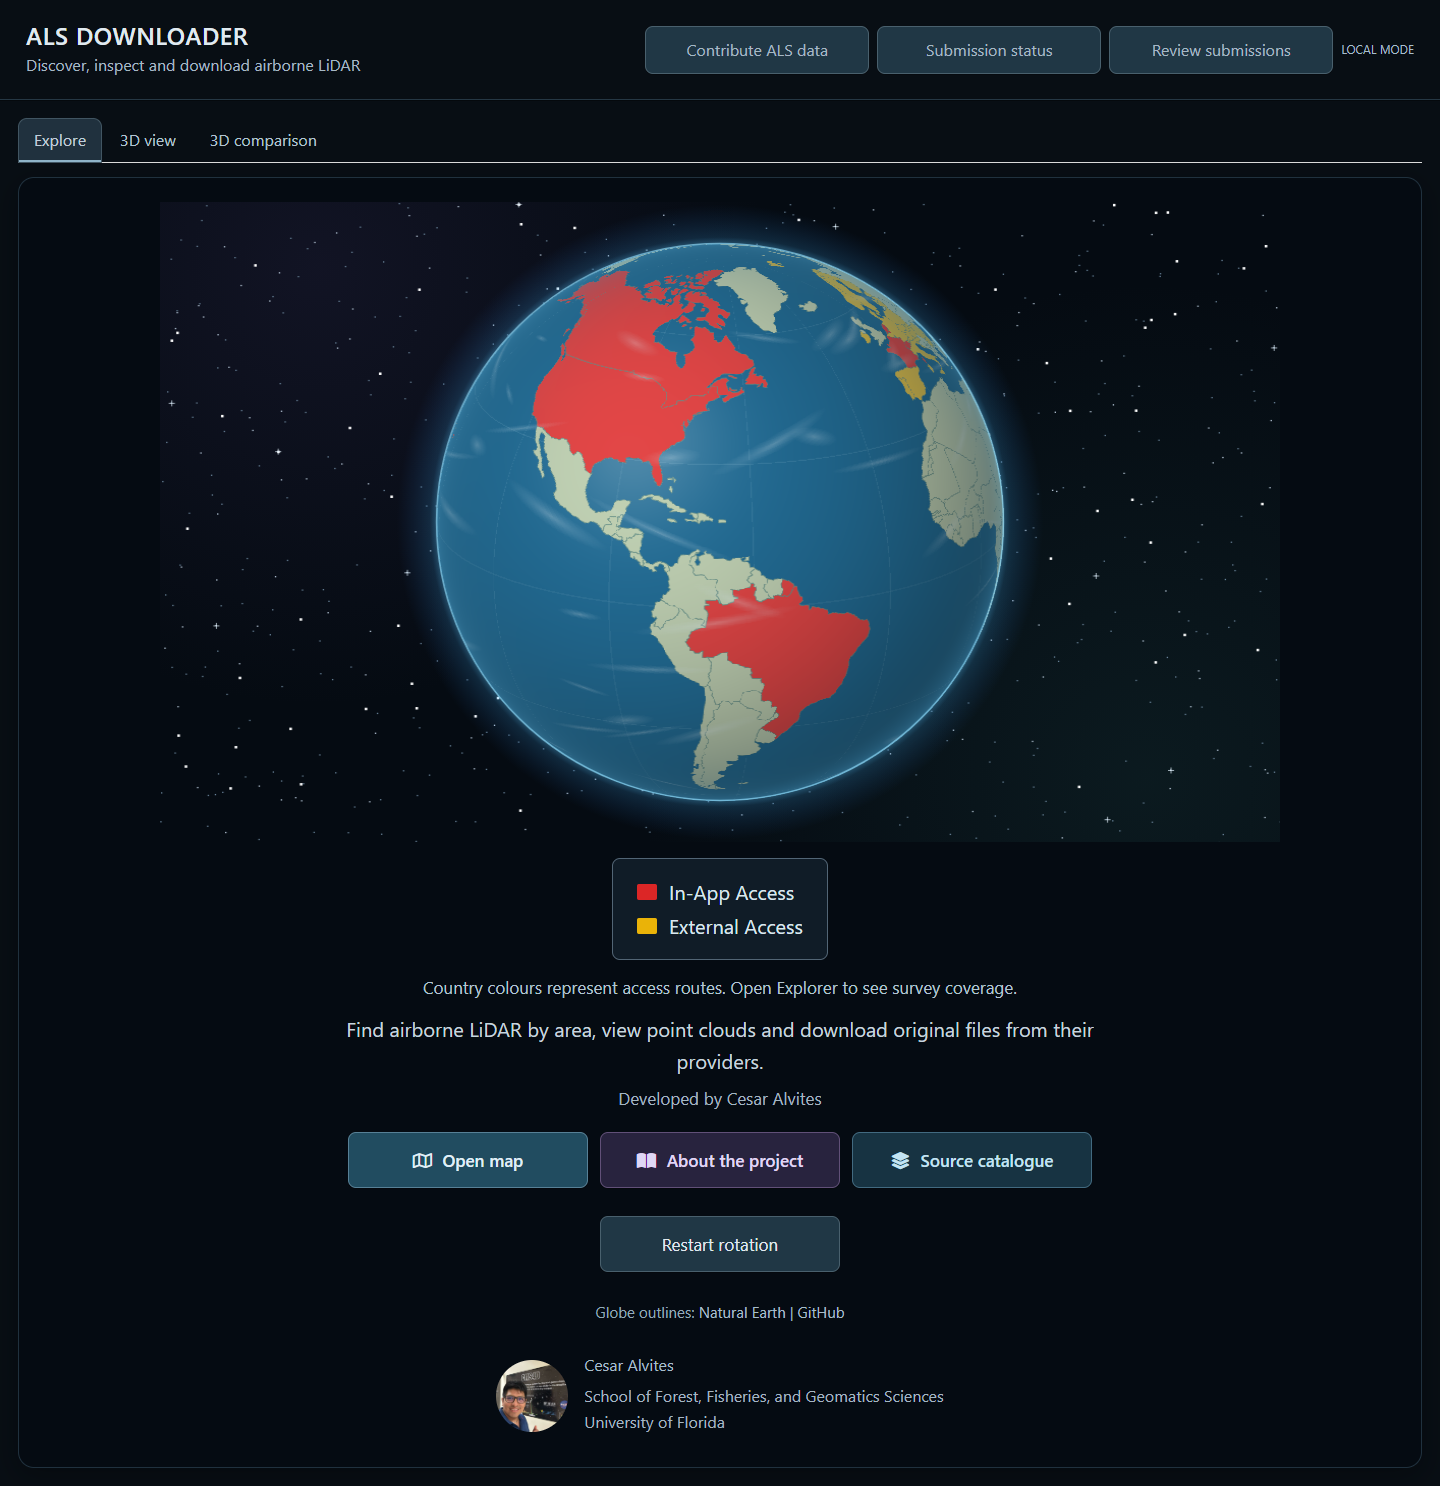
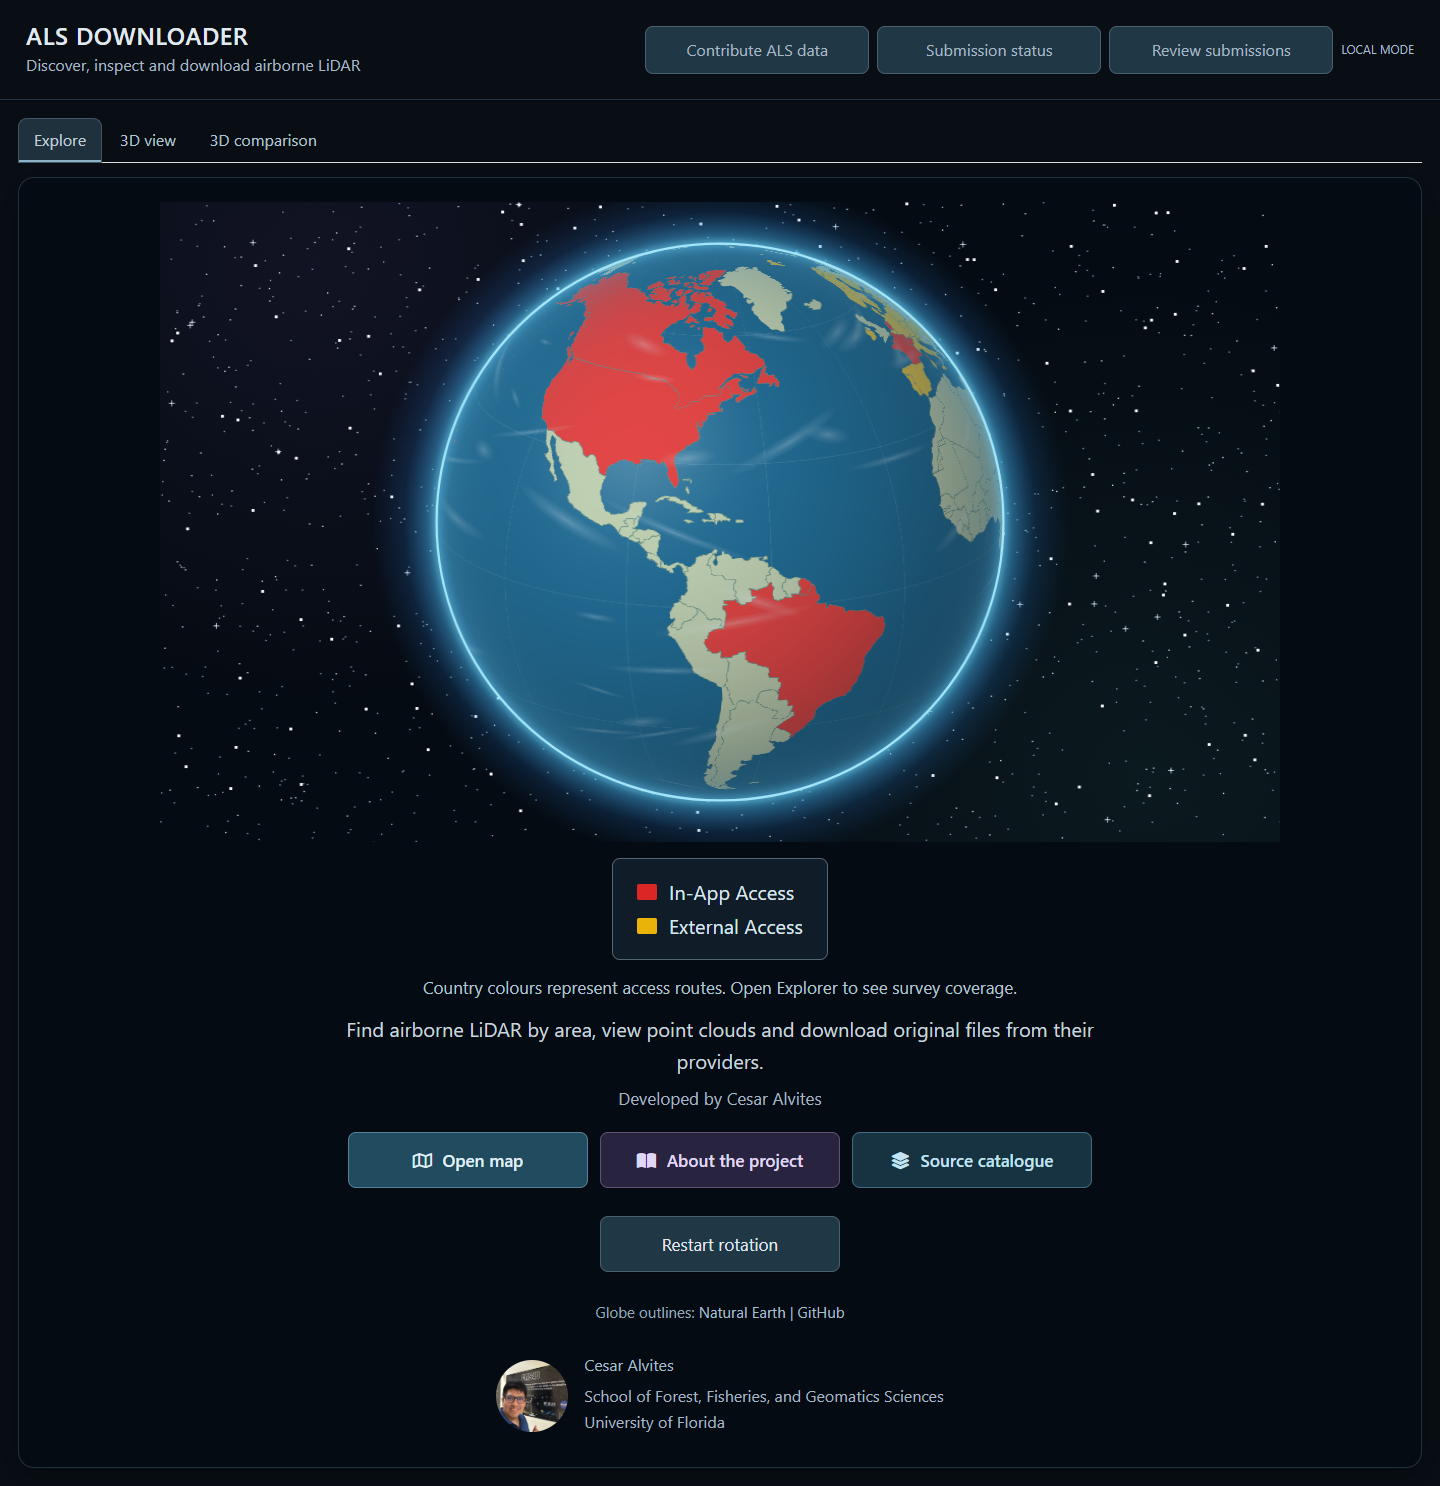
Brighten globe atmosphere and expand starfield

Changed region(s): [[0.25, 0.1238, 0.75, 0.5882], [0.5312, 0.2786, 0.5625, 0.3096]]

diff --git a/inst/app/www/globe.js b/inst/app/www/globe.js
@@ -63,16 +63,18 @@ document.addEventListener('DOMContentLoaded', async () => {
     const neb2=ctx.createRadialGradient(w*.88,h*.9,0,w*.88,h*.9,w*.45);
     neb2.addColorStop(0,'#1f4a4a3d');neb2.addColorStop(1,'#1f4a4a00');
     ctx.fillStyle=neb2;ctx.fillRect(0,0,w,h);
-    for(let i=0;i<720;i++){
+    const starCount=Math.round(900+600*Math.min(1,Math.max(0,(w-320)/780)));
+    for(let i=0;i<starCount;i++){
       const x=random(i+1)*w,y=random(i+1103)*h,tier=i%11;
-      ctx.fillStyle=tier===0?'#ffffff':tier<4?'#bacbdc':'#698399';
-      const size=tier===0?2.5:1.3;
+      ctx.fillStyle=tier===0?'#ffffff':tier<4?'#d0e1ed':'#849fb5';
+      const size=tier===0?2.8:1.3;
       ctx.fillRect(x,y,size,size);
       if(i%47===0){ctx.fillStyle='#e4f3ffb3';ctx.fillRect(x-2,y+.5,6,1);ctx.fillRect(x+.5,y-2,1,6);}
     }
     const r=Math.min(w*.43,h*.435),cx=w/2,cy=h/2,phi=lat*Math.PI/180,lambda=lon*Math.PI/180;
-    const glow=ctx.createRadialGradient(cx,cy,r*.98,cx,cy,r*1.14);
-    glow.addColorStop(0,'rgba(103,211,255,.52)');glow.addColorStop(.27,'rgba(62,166,240,.19)');
+    const glow=ctx.createRadialGradient(cx,cy,r*.975,cx,cy,r*1.23);
+    glow.addColorStop(0,'rgba(127,224,255,.85)');glow.addColorStop(.2,'rgba(76,191,255,.48)');
+    glow.addColorStop(.55,'rgba(48,144,240,.16)');
     glow.addColorStop(1,'rgba(40,121,225,0)');ctx.fillStyle=glow;ctx.fillRect(0,0,w,h);
     const img=ctx.getImageData(0,0,w,h),out=img.data,sky=[106,204,255];
     for(let y=Math.max(0,Math.floor(cy-r));y<Math.min(h,cy+r);y++)for(let x=Math.max(0,Math.floor(cx-r));x<Math.min(w,cx+r);x++){
@@ -82,14 +84,16 @@ document.addEventListener('DOMContentLoaded', async () => {
       const a=(ty*W+tx)*4,b=(y*w+x)*4,light=.55+.45*Math.max(0,z*.88-nx*.3+ny*.22);
       const ocean=pixels[a+2]>pixels[a]*1.5;
       const reflection=ocean?Math.pow(Math.max(0,z*.91-nx*.3+ny*.28),24)*.22:0;
-      const atmosphere=Math.pow(1-z,3)*.38;
+      const atmosphere=Math.pow(1-z,3)*.60;
       for(let k=0;k<3;k++){
         const surface=pixels[a+k]*light;
         const reflected=surface+(240-surface)*reflection;
         out[b+k]=reflected+(sky[k]-reflected)*atmosphere;
       }out[b+3]=255;
     }
-    ctx.putImageData(img,0,0);ctx.beginPath();ctx.arc(cx,cy,r,0,Math.PI*2);ctx.strokeStyle='rgba(147,224,255,.65)';ctx.lineWidth=1.5;ctx.stroke();
+    ctx.putImageData(img,0,0);ctx.save();ctx.beginPath();ctx.arc(cx,cy,r,0,Math.PI*2);
+    ctx.shadowColor='rgba(99,213,255,.9)';ctx.shadowBlur=r*.035;
+    ctx.strokeStyle='rgba(173,237,255,.9)';ctx.lineWidth=2.2;ctx.stroke();ctx.restore();
   }
   function redraw(){if(pending)return;pending=true;requestAnimationFrame(()=>{pending=false;draw();});}
   canvas.onpointerdown=e=>{setRotation(false);drag=[e.clientX,e.clientY];canvas.setPointerCapture(e.pointerId);canvas.focus();};
